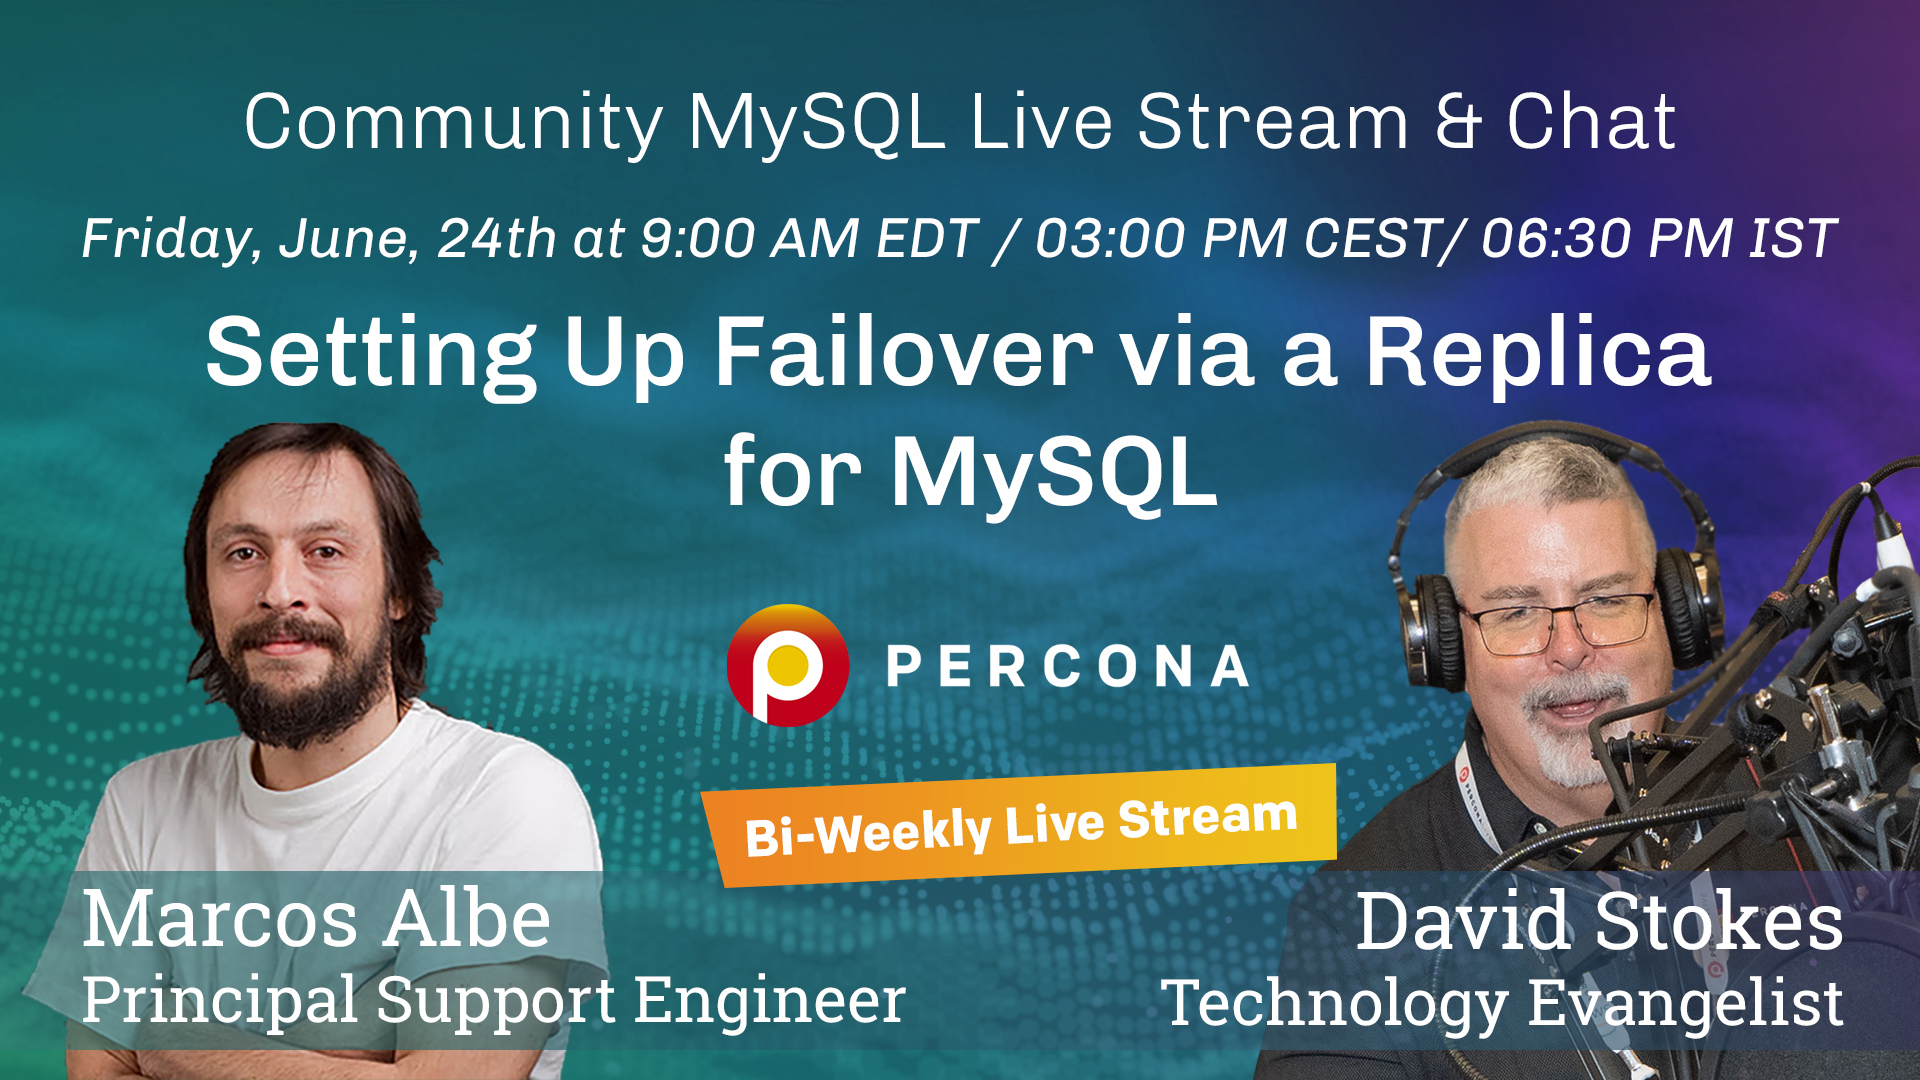
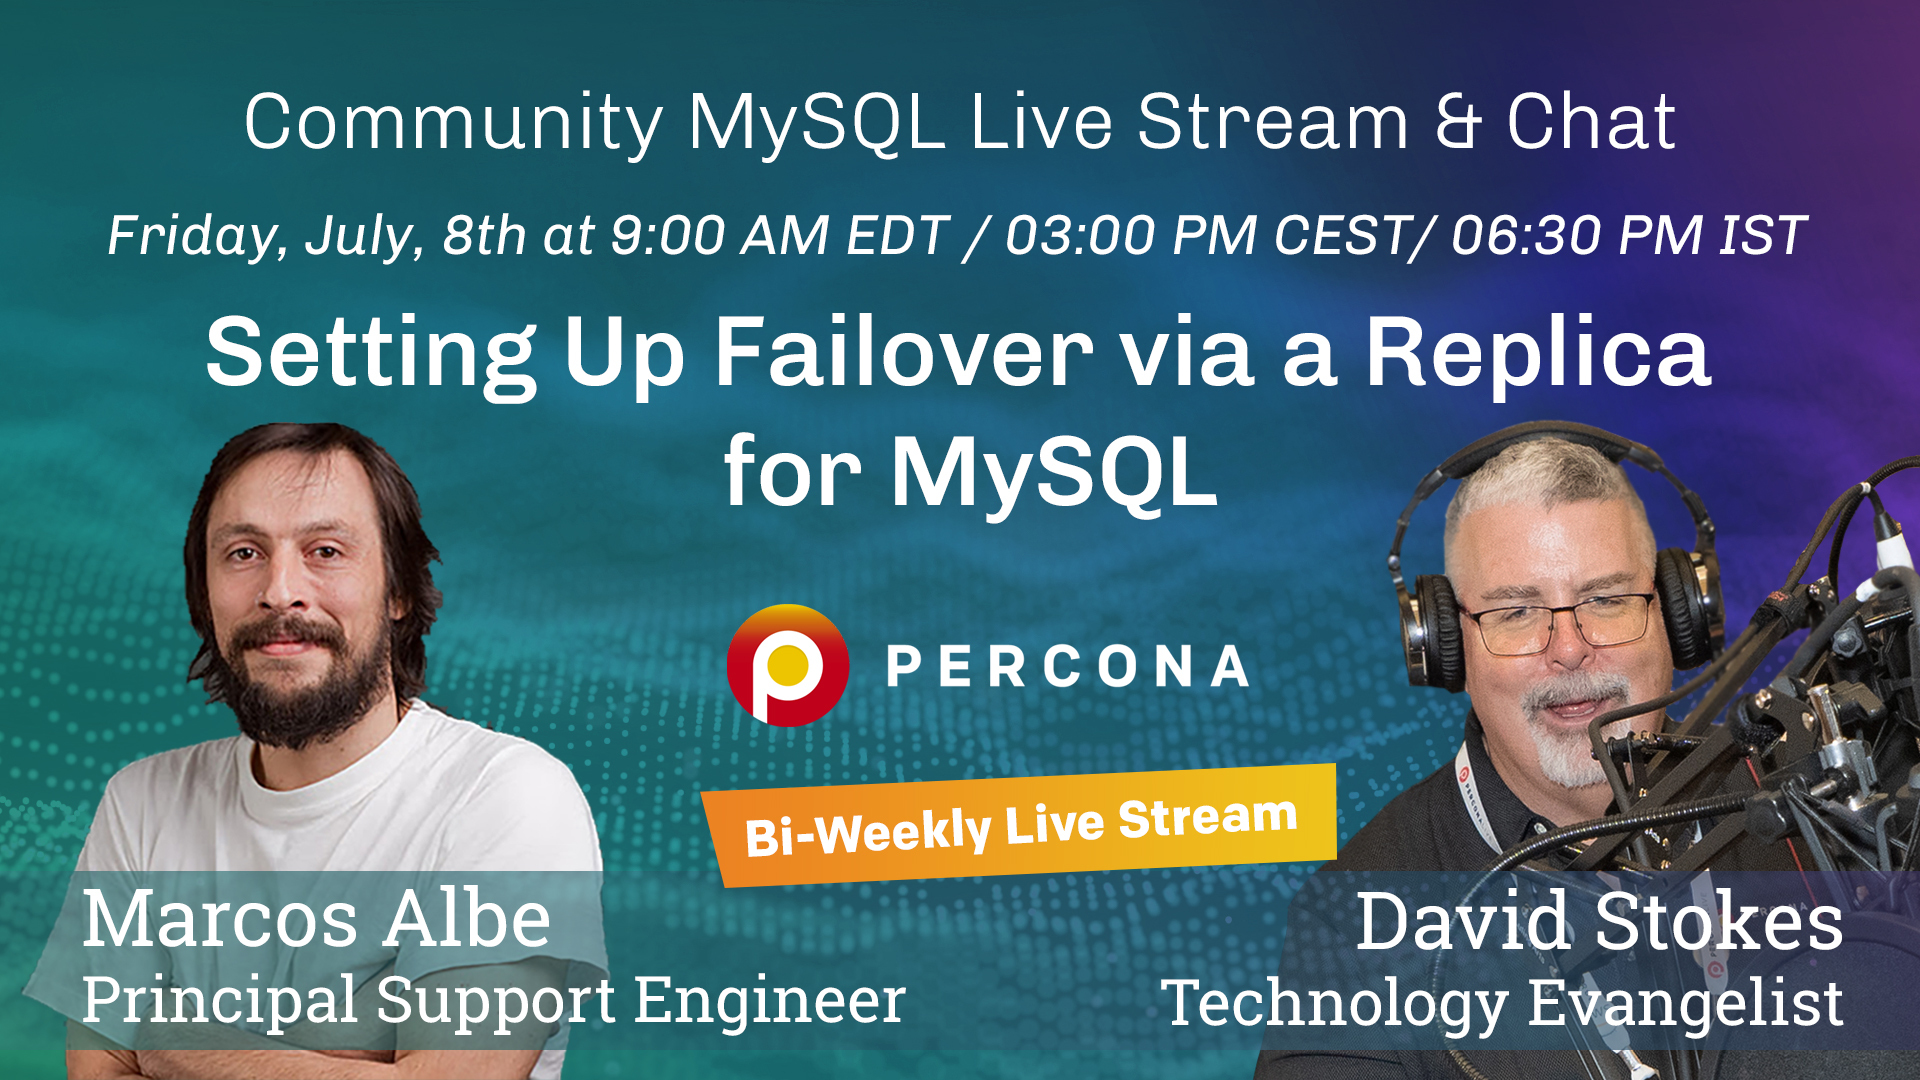
Postpone livestream july 8th

Changed region(s): [[0.0312, 0.1833, 0.9688, 0.2444]]

diff --git a/content/events/streams-mysql/_index.md b/content/events/streams-mysql/_index.md
@@ -30,39 +30,39 @@ Matt and Marcos will cover the following topics every two weeks on Friday at at 
 
 * June, 10th- [Setting Up Backups and Scheduling Regular MySQL Backups](/events/streams-mysql/2022-06-10-setting-up-backups-and-scheduling-regular-mysql-backups/)
 
-* June, 24th - [Setting Up Failover via a Replica for MySQL](/events/streams-mysql/2022-06-27-setting-up-failover-via-a-replica-for-mysql/)
+* July, 8th - [Setting Up Failover via a Replica for MySQL](/events/streams-mysql/2022-07-08-setting-up-failover-via-a-replica-for-mysql/)
 
-* July, 8th - Migrating MySQL to a New Server
+* July, 22nd - Migrating MySQL to a New Server
 
-* July, 22nd  - Installing and Setting Up MySQL on Kubernetes
+* August, 5th  - Installing and Setting Up MySQL on Kubernetes
 
-* August, 5th - MySQL Running on Kubernetes Operations
+* August, 19th - MySQL Running on Kubernetes Operations
 
-* August, 19th -  Exploring the Scalability Limits of MySQL on Kubernetes
+* September, 2nd -  Exploring the Scalability Limits of MySQL on Kubernetes
 
-* September, 2nd - Designing a Schema
+* September, 16th - Designing a Schema
 
-* September, 16th - How to Benchmark Your MySQL Database 
+* September, 30th - How to Benchmark Your MySQL Database 
 
-* September, 30th - How to Secure MySQL
+* October, 14th - How to Secure MySQL
 
-* October, 14th - Setting Up a MySQL Connection Pool
+* October, 28th - Setting Up a MySQL Connection Pool
 
-* October, 28th - Using MySQL and Redis to Boost Performance 
+* November, 11th - Using MySQL and Redis to Boost Performance 
 
-* November, 11th - Finding Poorly Designed Schema’s and How to Fix Them
+* November, 25th - Finding Poorly Designed Schema’s and How to Fix Them
 
-* November, 25th - Archiving MySQL Data
+* December, 9th - Archiving MySQL Data
 
-* December, 9th - Auditing MySQL 
+* December, 23rd - Auditing MySQL 
 
-* December, 23rd - Setting Up and Optimizing MySQL Aurora 
+* January, 6th - Setting Up and Optimizing MySQL Aurora 
 
-* January, 6th - Replicating MySQL Cross-Cloud
+* January, 20th - Replicating MySQL Cross-Cloud
 
-* January, 20th - Cross K8 Cluster MySQL Replication 
+* February, 3rd - Cross K8 Cluster MySQL Replication 
 
-* February, 3rd - Kubernetes for DBA’s
+* February, 17th - Kubernetes for DBA’s
 
 The attendance is free and open to the public. Subscribe to our channels on [YouTube](https://www.youtube.com/channel/UCLJ0Ok4HeUBrRYF4irturVA) and [Twitch](https://www.twitch.tv/perconacommunity).
 

diff --git a/content/events/streams-mysql/2022-07-08-setting-up-failover-via-a-replica-for-mysql.md b/content/events/streams-mysql/2022-07-08-setting-up-failover-via-a-replica-for-mysql.md
@@ -1,0 +1,31 @@
+---
+title: "Setting Up Failover via a Replica for MySQL - Percona Community MySQL Live Stream & Chat - July 8th"
+description: "Get some tips and tricks from our experts to easily set up a Failover via a Replica for MySQL  on Friday, July 8th at 9:00 AM EDT  / 03:00 PM CEST/ 06:30 PM IST"
+images:
+  - events/streams-mysql/Stream-MySQL-5-Marcos-with-Dave.jpg
+draft: false
+weight: 1
+speakers:
+  - marcos_albe
+  - dave_stokes
+tags: ['MySQL', 'Stream']
+---
+![Percona Community MySQL Live Stream July 8th](events/streams-mysql/Stream-MySQL-5-Marcos-with-Dave.jpg)
+
+The Next Community Livestream will focus on Failover and Replica for MySQL. Our experts Dave Stokes and Marcos Albe will take us through the setting to make it easier and answer your question straight forward.
+
+## Join us Live & Ask Questions
+Friday, July 8th at 9:00 AM EDT  / 03:00 PM CEST/ 06:30 PM IST
+Dave and Marcos will talk more about **Setting Up Failover via a Replica for MySQL**
+
+
+## Subscribe
+Watch it live on [YouTube](https://www.youtube.com/watch?v=HEVdBeO03Ws), [Linkedin](https://www.linkedin.com/video/event/urn:li:ugcPost:6946075568589209600/), and [Twitch](https://www.twitch.tv/perconacommunity).
+Live chat on [Discord](http://per.co.na/discord).
+Add this event to your [Google Calendar](https://calendar.google.com/event?action=TEMPLATE&tmeid=NWJoaGU5dTM2ZmpqZ3Y1bTR0anBrOGRxN3RfMjAyMjA3MDhUMTMwMDAwWiBmcmVkZWwubWFtaW5kcmFAcGVyY29uYS5jb20&tmsrc=fredel.mamindra%40percona.com)
+Follow us on [Twitter](https://twitter.com/PerconaBytes) and stay tuned to all upcoming meetups.
+Any comments, feedback, and suggestions are welcome to help Percona Community improve upcoming events!
+
+
+
+
